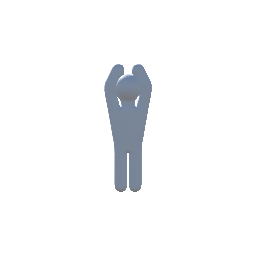
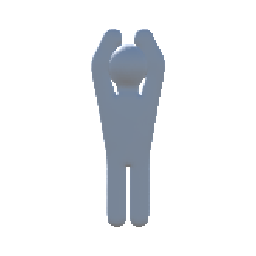
fix(pose): normalize imported pose scale
Compensated for the imported FBX root scale before calculating runtime pose size so Basic, Laydown, Sitdown, and RaisedArms share the same maximum character dimension. Enlarged the RaisedArms thumbnail presentation and added bounds assertions for all imported poses.

Changed region(s): [[0.3438, 0.0938, 0.6562, 0.9062]]

diff --git a/SearchMyPetUnity/Assets/Tests/Editor/CharacterColorPaletteTests.cs b/SearchMyPetUnity/Assets/Tests/Editor/CharacterColorPaletteTests.cs
@@ -320,24 +320,28 @@ namespace SearchMyPet.AR.Tests
 
                 var baseRenderer = character.GetComponent<Renderer>();
                 var baseMaterial = baseRenderer.sharedMaterial;
+                var baseSize = Mathf.Max(baseRenderer.bounds.size.x, baseRenderer.bounds.size.y, baseRenderer.bounds.size.z);
                 palette.SelectPose(1);
                 var laydownInstance = character.transform.Find("ChameleonLaydown Pose");
                 Assert.That(laydownInstance, Is.Not.Null);
                 Assert.That(baseRenderer.gameObject.activeSelf, Is.False);
                 Assert.That(laydownInstance.gameObject.activeSelf, Is.True);
                 Assert.That(laydownInstance.GetComponentInChildren<Renderer>(true), Is.Not.Null);
+                Assert.That(GetMaxBoundsSize(laydownInstance.gameObject), Is.EqualTo(baseSize).Within(0.01f));
 
                 palette.SelectPose(2);
                 var sitdownInstance = character.transform.Find("ChameleonSitdown Pose");
                 Assert.That(laydownInstance.gameObject.activeSelf, Is.False);
                 Assert.That(sitdownInstance, Is.Not.Null);
                 Assert.That(sitdownInstance.gameObject.activeSelf, Is.True);
+                Assert.That(GetMaxBoundsSize(sitdownInstance.gameObject), Is.EqualTo(baseSize).Within(0.01f));
 
                 palette.SelectPose(3);
                 var raisedArmsInstance = character.transform.Find("ChameleonRaisedArms Pose");
                 Assert.That(sitdownInstance.gameObject.activeSelf, Is.False);
                 Assert.That(raisedArmsInstance, Is.Not.Null);
                 Assert.That(raisedArmsInstance.gameObject.activeSelf, Is.True);
+                Assert.That(GetMaxBoundsSize(raisedArmsInstance.gameObject), Is.EqualTo(baseSize).Within(0.01f));
 
                 palette.SelectPose(0);
                 Assert.That(baseRenderer.gameObject.activeSelf, Is.True);
@@ -582,6 +586,18 @@ namespace SearchMyPet.AR.Tests
             var renderer = part.GetComponent<Renderer>();
             renderer.sharedMaterial = material;
             return renderer;
+        }
+
+        private static float GetMaxBoundsSize(GameObject root)
+        {
+            var renderers = root.GetComponentsInChildren<Renderer>(true);
+            var bounds = renderers[0].bounds;
+            for (var index = 1; index < renderers.Length; index++)
+            {
+                bounds.Encapsulate(renderers[index].bounds);
+            }
+
+            return Mathf.Max(bounds.size.x, bounds.size.y, bounds.size.z);
         }
 
         private static GameObject GetSceneUi(out Scene openedScene)

diff --git a/SearchMyPetUnity/Assets/Scripts/AR/CharacterColorPalette.cs b/SearchMyPetUnity/Assets/Scripts/AR/CharacterColorPalette.cs
@@ -611,16 +611,23 @@ namespace SearchMyPet.AR
         {
             var baseSize = GetMaxBoundsSize(basePoseRenderers);
             var poseSize = GetMaxBoundsSize(posePrefab.GetComponentsInChildren<Renderer>(true));
+            var poseRootScale = Mathf.Max(
+                Mathf.Abs(posePrefab.transform.lossyScale.x),
+                Mathf.Abs(posePrefab.transform.lossyScale.y),
+                Mathf.Abs(posePrefab.transform.lossyScale.z));
             var parentScale = Mathf.Max(
                 Mathf.Abs(paintTarget.transform.lossyScale.x),
                 Mathf.Abs(paintTarget.transform.lossyScale.y),
                 Mathf.Abs(paintTarget.transform.lossyScale.z));
-            if (baseSize <= Mathf.Epsilon || poseSize <= Mathf.Epsilon || parentScale <= Mathf.Epsilon)
+            if (baseSize <= Mathf.Epsilon
+                || poseSize <= Mathf.Epsilon
+                || poseRootScale <= Mathf.Epsilon
+                || parentScale <= Mathf.Epsilon)
             {
                 return 0.01f;
             }
 
-            return baseSize / (poseSize * parentScale);
+            return baseSize / ((poseSize / poseRootScale) * parentScale);
         }
 
         private void SetBasePoseVisible(bool visible)
